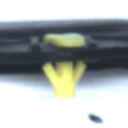
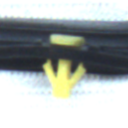
minor bug fixes

diff --git a/aikensa/thread/inspection_thread.py b/aikensa/thread/inspection_thread.py
@@ -1401,14 +1401,14 @@ class InspectionThread(QThread):
                                             perform_standard_pred=False
                                         )
 
-                                self.InspectionImages_endSegmentation_Left[i] = self.InspectionImages[i][:, :768, :]
-                                self.InspectionImages_endSegmentation_Right[i] = self.InspectionImages[i][:, -768:, :]
+                                self.InspectionImages_endSegmentation_Left[i] = self.InspectionImages[i][:, :512, :]
+                                self.InspectionImages_endSegmentation_Right[i] = self.InspectionImages[i][:, -512:, :]
 
                                 self.InspectionImages_endSegmentation_Left[i] = cv2.copyMakeBorder(self.InspectionImages_endSegmentation_Left[i], 512, 512, 512, 512, cv2.BORDER_CONSTANT, value=[255, 255, 255])
                                 self.InspectionImages_endSegmentation_Right[i] = cv2.copyMakeBorder(self.InspectionImages_endSegmentation_Right[i], 512, 512, 512, 512, cv2.BORDER_CONSTANT, value=[255, 255, 255])
 
-                                self.InspectionResult_EndSegmentation_Left[i] = self.P808387UA1A_SEGMENT_Model(source=self.InspectionImages_endSegmentation_Left[i], conf=0.5, imgsz=1600, verbose=False)
-                                self.InspectionResult_EndSegmentation_Right[i] = self.P808387UA1A_SEGMENT_Model(source=self.InspectionImages_endSegmentation_Right[i], conf=0.5, imgsz=1600, verbose=False)
+                                self.InspectionResult_EndSegmentation_Left[i] = self.P808387UA1A_SEGMENT_Model(source=self.InspectionImages_endSegmentation_Left[i], conf=0.5, imgsz=1680, verbose=False, retina_masks=True)
+                                self.InspectionResult_EndSegmentation_Right[i] = self.P808387UA1A_SEGMENT_Model(source=self.InspectionImages_endSegmentation_Right[i], conf=0.5, imgsz=1680, verbose=False, retina_masks=True)
 
                                 self.InspectionImages[i], self.InspectionResult_PitchMeasured[i], self.InspectionResult_PitchResult[i], self.InspectionResult_DeltaPitch[i], self.InspectionResult_Status[i], self.InspectionResult_NGReason[i] = P808387UA1A_check(self.InspectionImages[i], 
                                                                                                                                                                                                                                                 self.InspectionResult_ClipDetection[i].object_prediction_list,
@@ -1548,14 +1548,14 @@ class InspectionThread(QThread):
                                             perform_standard_pred=False
                                         )
 
-                                self.InspectionImages_endSegmentation_Left[i] = self.InspectionImages[i][:, :768, :]
-                                self.InspectionImages_endSegmentation_Right[i] = self.InspectionImages[i][:, -768:, :]
+                                self.InspectionImages_endSegmentation_Left[i] = self.InspectionImages[i][:, :512, :]
+                                self.InspectionImages_endSegmentation_Right[i] = self.InspectionImages[i][:, -512:, :]
                                 self.InspectionImages_endSegmentation_Left[i] = cv2.copyMakeBorder(self.InspectionImages_endSegmentation_Left[i], 512, 512, 512, 512, cv2.BORDER_CONSTANT, value=[255, 255, 255])
                                 self.InspectionImages_endSegmentation_Right[i] = cv2.copyMakeBorder(self.InspectionImages_endSegmentation_Right[i], 512, 512, 512, 512, cv2.BORDER_CONSTANT, value=[255, 255, 255])
 
 
-                                self.InspectionResult_EndSegmentation_Left[i] = self.P828447UA0A_SEGMENT_Model(source=self.InspectionImages_endSegmentation_Left[i], conf=0.5, imgsz=1600, verbose=False)
-                                self.InspectionResult_EndSegmentation_Right[i] = self.P828447UA0A_SEGMENT_Model(source=self.InspectionImages_endSegmentation_Right[i], conf=0.5, imgsz=1600, verbose=False)
+                                self.InspectionResult_EndSegmentation_Left[i] = self.P828447UA0A_SEGMENT_Model(source=self.InspectionImages_endSegmentation_Left[i], conf=0.5, imgsz=1680, verbose=False, retina_masks=True)
+                                self.InspectionResult_EndSegmentation_Right[i] = self.P828447UA0A_SEGMENT_Model(source=self.InspectionImages_endSegmentation_Right[i], conf=0.5, imgsz=1680, verbose=False, retina_masks=True)
 
                                 self.InspectionImages[i], self.InspectionResult_PitchMeasured[i], self.InspectionResult_PitchResult[i], self.InspectionResult_DeltaPitch[i], self.InspectionResult_Status[i], self.InspectionResult_NGReason[i] = P828447UA0A_check(self.InspectionImages[i], 
                                                                                                                                                                                                                                                 self.InspectionResult_ClipDetection[i].object_prediction_list,

diff --git a/aikensa/parts_config/NISSAN/M_JC2D/P808387UA1A.py b/aikensa/parts_config/NISSAN/M_JC2D/P808387UA1A.py
@@ -30,7 +30,7 @@ bbox_offset = 1
 pixelMultiplier = 0.161 #0.1592
 
 segmentation_pixel_start = 0
-segmentation_pixel_finish = 768
+segmentation_pixel_finish = 512
 segmentation_width = segmentation_pixel_finish - segmentation_pixel_start
 
 border_width = 512
@@ -157,8 +157,8 @@ def partcheck(image, sahi_predictionList, leftSegmentation, rightSegmentation):
         rightmostWidth = detectedWidth[-1]
       
         # Positive Yoffsetval means going down, negative means going up
-        left_edge = find_edge_point_mask(image, combined_mask, leftmostCenter, direction="left", Yoffsetval = -80, Xoffsetval = 0)
-        right_edge = find_edge_point_mask(image, combined_mask, rightmostCenter, direction="right", Yoffsetval = -80, Xoffsetval = 0)
+        left_edge = find_edge_point_mask(image, combined_mask, leftmostCenter, direction="left", Yoffsetval = -50, Xoffsetval = 0)
+        right_edge = find_edge_point_mask(image, combined_mask, rightmostCenter, direction="right", Yoffsetval = -50, Xoffsetval = 0)
 
         leftmostPitch = calclength(leftmostCenter, left_edge)*pixelMultiplier
         rightmostPitch = calclength(rightmostCenter, right_edge)*pixelMultiplier

diff --git a/aikensa/parts_config/NISSAN/M_JC2D/P828447UA0A.py b/aikensa/parts_config/NISSAN/M_JC2D/P828447UA0A.py
@@ -30,7 +30,7 @@ bbox_offset = 1
 pixelMultiplier = 0.161 #0.1592
 
 segmentation_pixel_start = 0
-segmentation_pixel_finish = 768
+segmentation_pixel_finish = 512
 segmentation_width = segmentation_pixel_finish - segmentation_pixel_start
 
 border_width = 512
@@ -157,8 +157,8 @@ def partcheck(image, sahi_predictionList, leftSegmentation, rightSegmentation):
         rightmostWidth = detectedWidth[-1]
       
         # Positive Yoffsetval means going down, negative means going up
-        left_edge = find_edge_point_mask(image, combined_mask, leftmostCenter, direction="left", Yoffsetval = -80, Xoffsetval = 0)
-        right_edge = find_edge_point_mask(image, combined_mask, rightmostCenter, direction="right", Yoffsetval = -80, Xoffsetval = 0)
+        left_edge = find_edge_point_mask(image, combined_mask, leftmostCenter, direction="left", Yoffsetval = -50, Xoffsetval = 0)
+        right_edge = find_edge_point_mask(image, combined_mask, rightmostCenter, direction="right", Yoffsetval = -50, Xoffsetval = 0)
 
         leftmostPitch = calclength(leftmostCenter, left_edge)*pixelMultiplier
         rightmostPitch = calclength(rightmostCenter, right_edge)*pixelMultiplier
